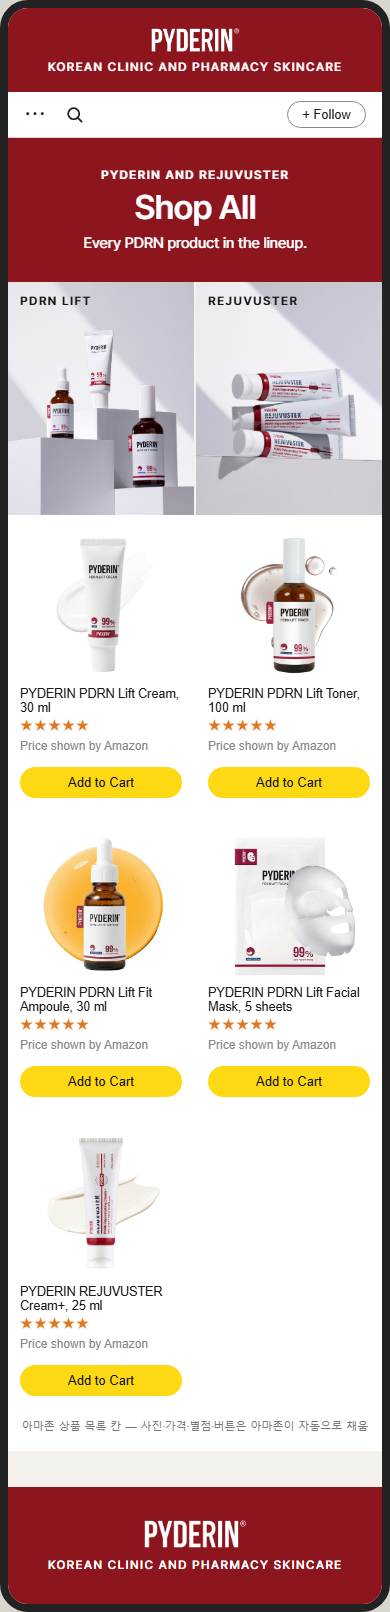
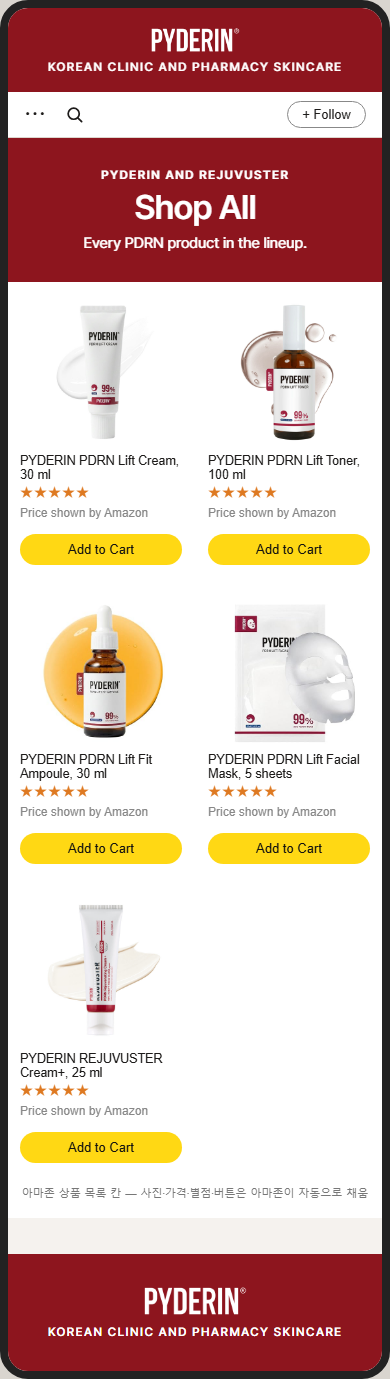
SHOP ALL: 배너와 상품 목록만 남김

diff --git a/index.html b/index.html
@@ -392,8 +392,7 @@
       <div class="cap2">PYDERIN's session with doctors and pharmacists, July 21, 2026.</div></div>
 
     <div class="sec"><span class="n">10</span><div class="end" style="margin-top:0"><img src="img/logo-white.png" alt="PYDERIN" style="height:30px"><small>Korean clinic and pharmacy skincare</small></div></div></div><div class="page" id="shop">
-  <div class="sec"><div class="band"><span class="eyebrow">PYDERIN and REJUVUSTER</span><h2>Shop All</h2><p>Every PDRN product in the lineup.</p></div>
-    <div class="pair"><a href="#pyderin"><img src="img/v3/lift-blocks2.jpg" alt=""><span>PDRN Lift</span></a><a href="#rejuvuster"><img src="img/v3/rj-stack.jpg" alt=""><span>REJUVUSTER</span></a></div></div>
+  <div class="sec"><div class="band"><span class="eyebrow">PYDERIN and REJUVUSTER</span><h2>Shop All</h2><p>Every PDRN product in the lineup.</p></div></div>
   <div class="sec az"><div class="grid"><div class="card"><img class="pk" src="img/m-cream.jpg" alt="">PYDERIN PDRN Lift Cream, 30 ml<br><span class="stars">★★★★★</span><span class="price">Price shown by Amazon</span><span class="buy">Add to Cart</span></div><div class="card"><img class="pk" src="img/m-toner.jpg" alt="">PYDERIN PDRN Lift Toner, 100 ml<br><span class="stars">★★★★★</span><span class="price">Price shown by Amazon</span><span class="buy">Add to Cart</span></div><div class="card"><img class="pk" src="img/ampoule.jpg" alt="">PYDERIN PDRN Lift Fit Ampoule, 30 ml<br><span class="stars">★★★★★</span><span class="price">Price shown by Amazon</span><span class="buy">Add to Cart</span></div><div class="card"><img class="pk" src="img/mask.jpg" alt="">PYDERIN PDRN Lift Facial Mask, 5 sheets<br><span class="stars">★★★★★</span><span class="price">Price shown by Amazon</span><span class="buy">Add to Cart</span></div><div class="card"><img class="pk" src="img/m-rejuvuster.jpg" alt="">PYDERIN REJUVUSTER Cream+, 25 ml<br><span class="stars">★★★★★</span><span class="price">Price shown by Amazon</span><span class="buy">Add to Cart</span></div></div><div class="aznote">아마존 상품 목록 칸 — 사진·가격·별점·버튼은 아마존이 자동으로 채움</div></div>
   <div class="sec"><div class="end"><img src="img/logo-white.png" alt="PYDERIN" style="height:30px;margin:auto"><small>Korean clinic and pharmacy skincare</small></div></div></div><div class="page" id="pyderin">
   <div class="sec full"><img src="img/v3/lift-blocks.jpg" alt="" style="aspect-ratio:390/610;object-position:50% 100%">
